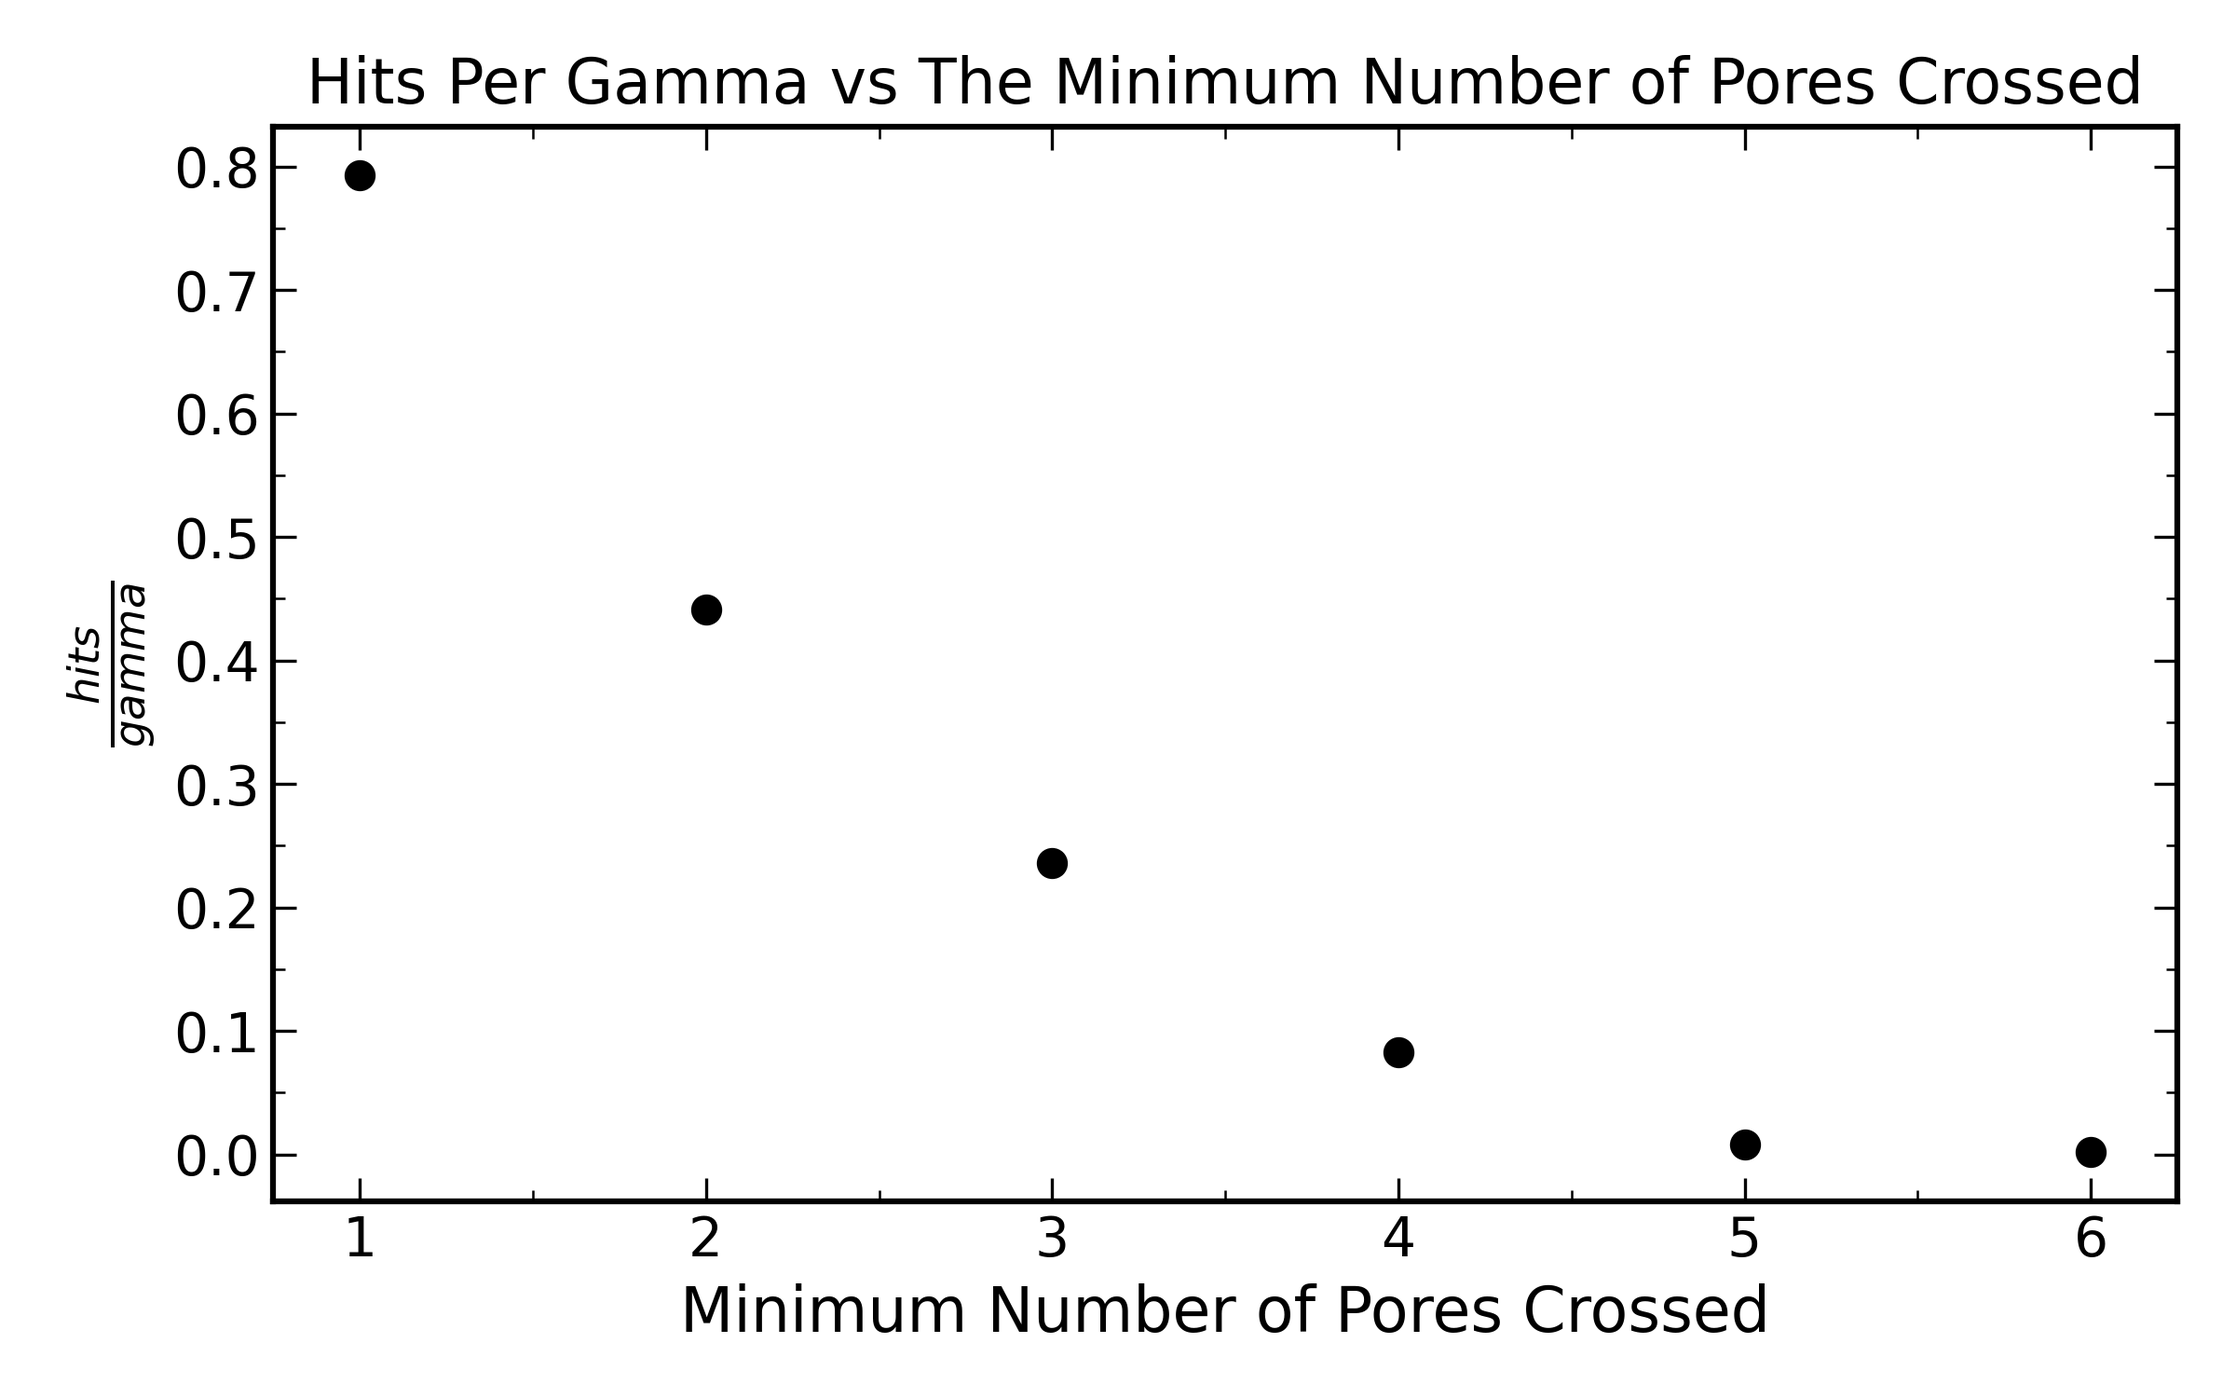
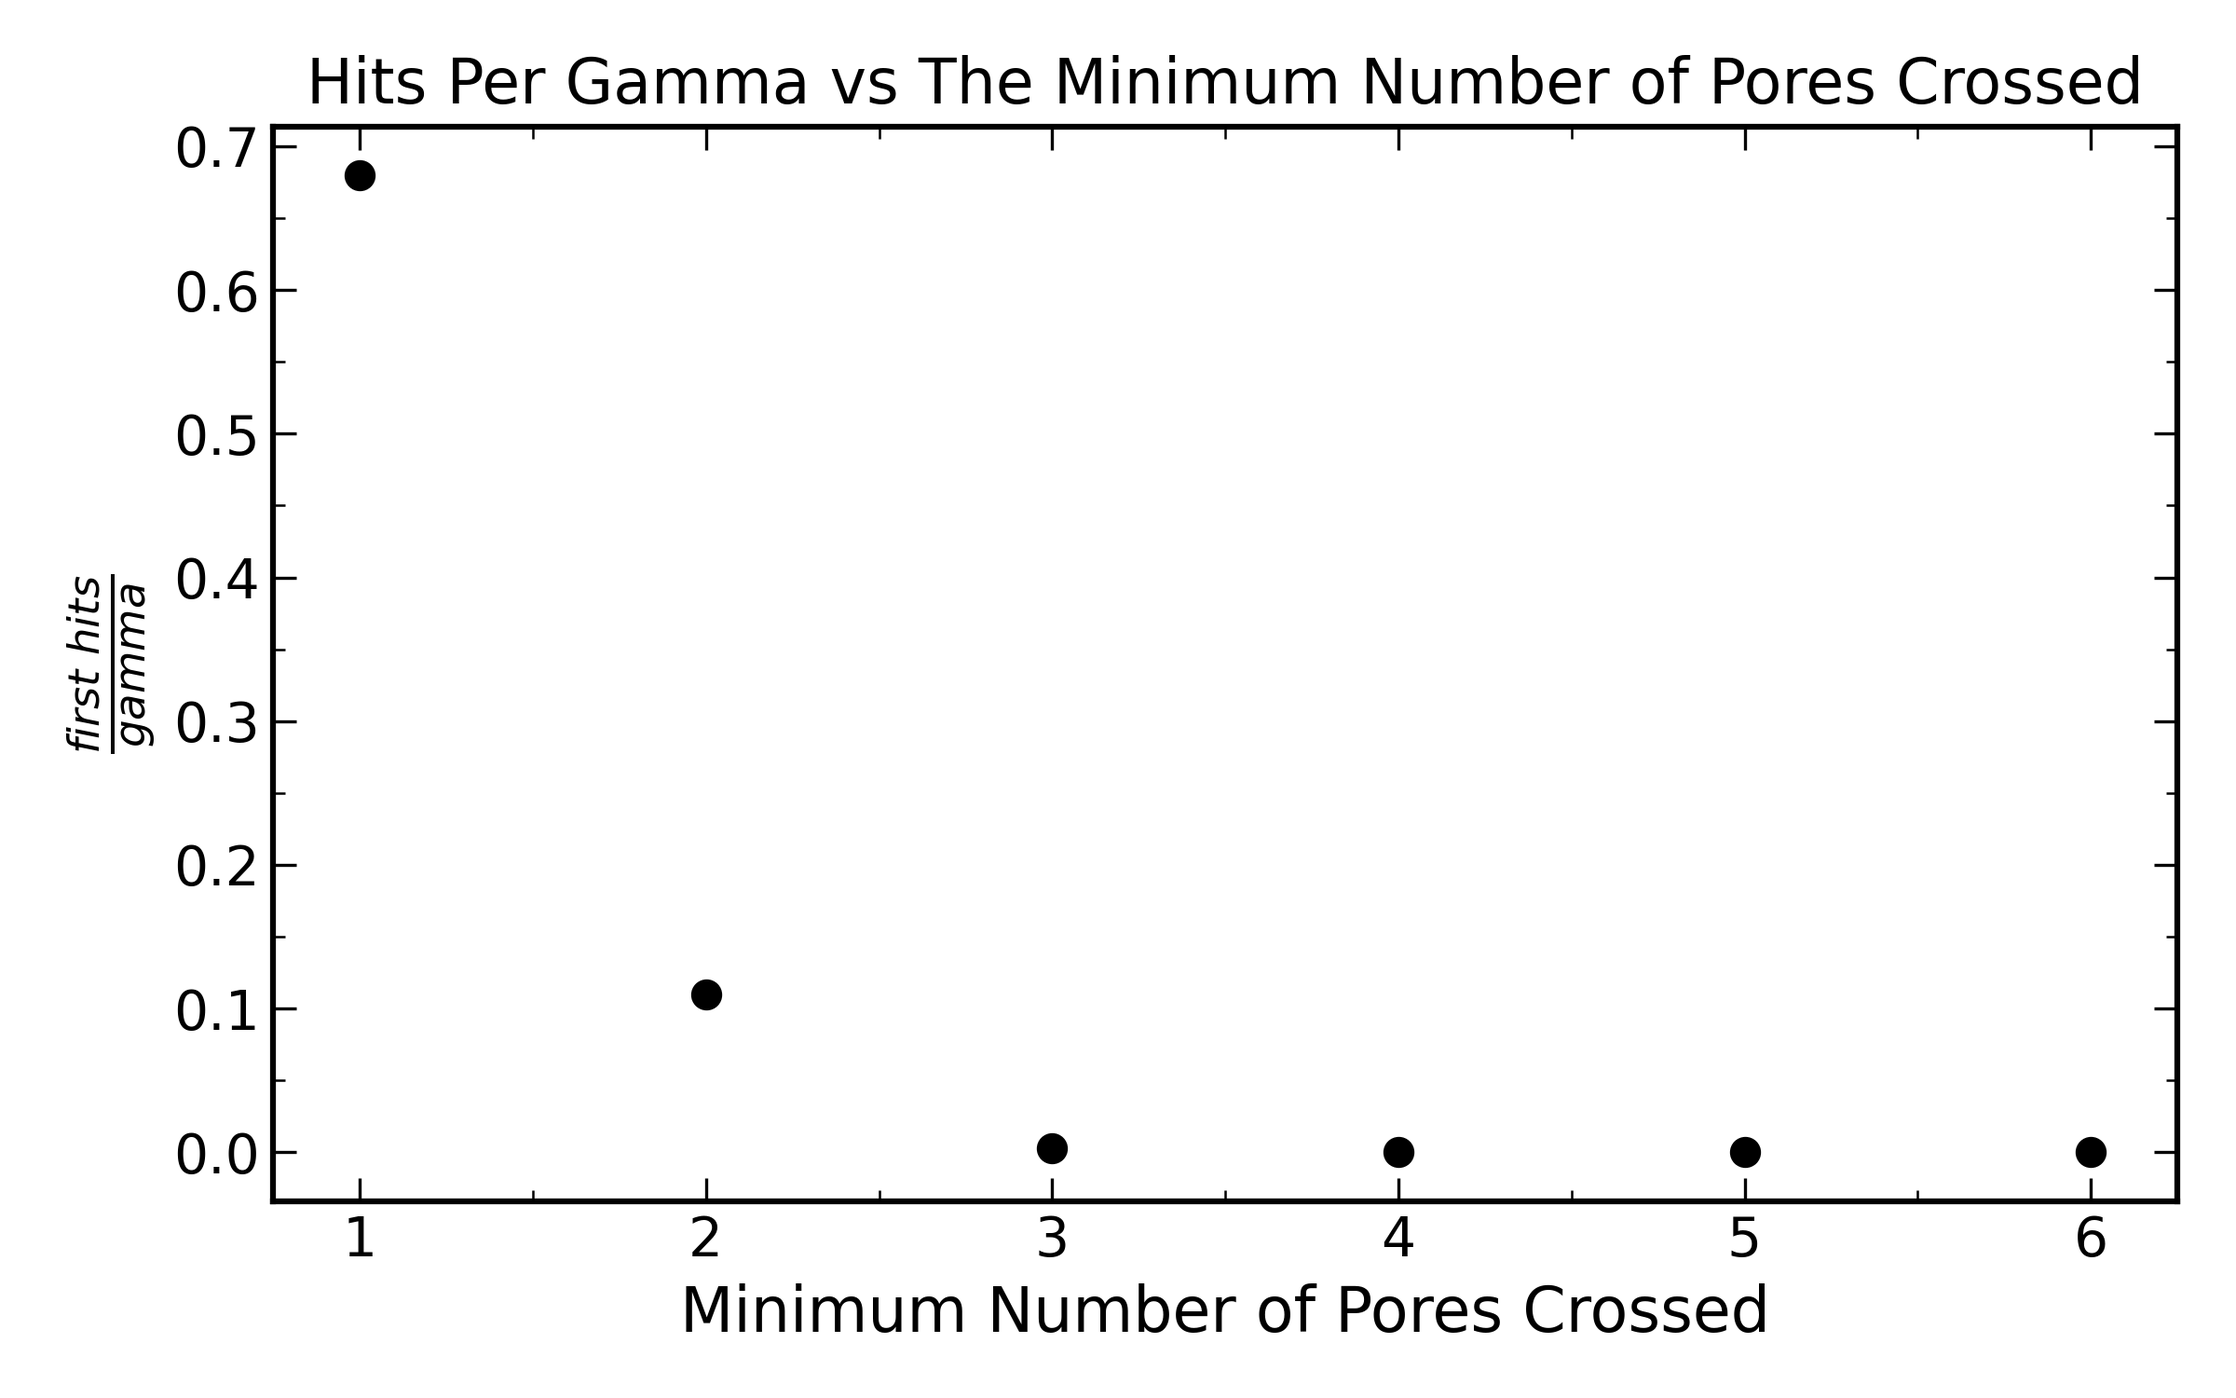
made plots cleaner

diff --git a/src/hgmt_lor_creator.c b/src/hgmt_lor_creator.c
@@ -23,7 +23,9 @@ uint vis_events = 0;
 uint counter = 0;
 uint hit_first_counter = 0;
 uint hit_second_counter = 0;
+uint first_hit_second_scatter = 0;
 uint hit_third_counter = 0;
+uint first_hit_third_scatter = 0;
 uint chain_count = 0;
 uint lor_count = 0;
 uint first_scatter_count = 0;
@@ -78,7 +80,8 @@ FILE *second_scatter_ranges;
 FILE *third_scatter_ranges;
 FILE *pores_crossed_first_hit;
 FILE *min_energy_pores;
-FILE *scatter_layers;
+FILE *first_scatter_layers;
+FILE *first_scatter_detected_layers;
 //FILE *angular_output;
 //FILE *det_angle;
 //FILE *energy_dist;
@@ -212,6 +215,11 @@ int debug_path(photon_path *path, debug_context context) {
         first_scatter_count ++;
         double range1 = pg_kapton_range_mm(path->events[0]->energy);
         fwrite(&range1, sizeof(double), 1, first_scatter_ranges);
+        int layer = path->events[0]->detector_id;
+        fwrite(&layer, sizeof(int), 1, first_scatter_layers);
+        if(path->events[0]->detected){
+            fwrite(&layer, sizeof(int), 1, first_scatter_detected_layers);
+        }
     }
     if(path->num_events >= 2){
         second_scatter_count ++;
@@ -259,9 +267,6 @@ int debug_annihilation(debug_context context) {
   annihilation *annihil = context.annihil;
   num_scatters += annihil->num_events;
   num_hits += annihil->num_hits;
-  for(int i = 0; i < annihil->num_events; i ++){
-    print_double(annihil->events[i].detector_id, scatter_layers);
-  }
   if (debug_options[0])
     for (int j = 0; j < annihil->num_events; j++)
       print_double(annihil->events[j].detector_id, debug[0]);
@@ -355,9 +360,15 @@ void *worker(void *arg) {
         } 
         else if(scatter_num == 1){
             hit_second_counter ++;
+            if(i == 0){
+                first_hit_second_scatter ++;
+            }
         }
         else if(scatter_num == 2){
             hit_third_counter ++;
+            if(i == 0){
+                first_hit_third_scatter ++;
+            }
         }
     }
     for (int i = 0; i < split.num_hits2; i ++){
@@ -619,10 +630,15 @@ int main(int argc, char **argv) {
   free(min_energy_loc);
 
   //open file for scatter layer counts
-  char *scatter_layer_loc;
-  asprintf(&scatter_layer_loc, "%sscatter_layers.data", args[2]);
-  scatter_layers = fopen(scatter_layer_loc, "wb");
-  free(scatter_layer_loc);
+  char *first_scatter_layer_loc;
+  asprintf(&first_scatter_layer_loc, "%sfirst_scatter_layers.data", args[2]);
+  first_scatter_layers = fopen(first_scatter_layer_loc, "wb");
+  free(first_scatter_layer_loc);
+
+  char *first_scatter_detected_layer_loc;
+  asprintf(&first_scatter_detected_layer_loc, "%sfirst_scatter_detected_layers.data", args[2]);
+  first_scatter_detected_layers = fopen(first_scatter_detected_layer_loc, "wb");
+  free(first_scatter_detected_layer_loc);
 
   //opens scatter ranges files
   char *first_ranges_loc;
@@ -747,8 +763,10 @@ int main(int argc, char **argv) {
   printf("first scatter hits: %u\n", hit_first_counter);
   printf("first scatter count: %u\n", first_scatter_count);
   printf("second scatter hits: %u\n", hit_second_counter);
+  printf("second scatter first hits eff: %f\n", (double)first_hit_second_scatter/second_scatter_count);
   printf("second scatter counts: %u\n", second_scatter_count);
   printf("third scatter hits: %u\n", hit_third_counter);
+  printf("third scatter first hits eff: %f\n", (double)first_hit_third_scatter/third_scatter_count);
   printf("third scatter counts: %u\n", third_scatter_count); 
   printf(
       "(DUAL)CUT 'N': 'num' 'percent passing' 'cumulative percent passing'\n");
@@ -834,8 +852,11 @@ int main(int argc, char **argv) {
   if(min_energy_pores != NULL){
     fclose(min_energy_pores);
   }
-  if(scatter_layers != NULL){
-    fclose(scatter_layers);
+  if(first_scatter_layers != NULL){
+    fclose(first_scatter_layers);
+  }
+  if(first_scatter_detected_layers != NULL){
+    fclose(first_scatter_detected_layers);
   }
   /*if (angular_output != NULL){
     fclose(angular_output);

diff --git a/scripts/plot_incoming_gammas.py b/scripts/plot_incoming_gammas.py
@@ -47,42 +47,43 @@ bin_width = bin_edges[1] - bin_edges[0]
 fig, ax = plt.subplots(figsize=(8,6))
 eps = 1e-10
 #ax.errorbar(bin_centers, counts/10000000, np.sqrt(counts)/10000000, capsize = 2)
-ax.plot(bin_centers, np.log(counts/20000000 + eps), label = 'all first hits')
+ax.plot(bin_centers, counts/20000000 + eps, label = 'all first hits')
 #ax.errorbar(bin_centers, counts_first/10000000, np.sqrt(counts_first)/10000000, capsize = 2)
-ax.plot(bin_centers, np.log(counts_first/20000000 + eps), label = 'i = 1')
+ax.plot(bin_centers, counts_first/20000000 + eps, label = 'i = 1')
 #ax.errorbar(bin_centers, counts_first_firstid/10000000, np.sqrt(counts_first_firstid)/10000000, capsize = 2)
 #ax.plot(bin_centers, np.log(counts_first_firstid/10000000 + eps))
 #ax.errorbar(bin_centers, counts_first_secondid/10000000, np.sqrt(counts_first_secondid)/10000000, capsize = 2)
 #ax.plot(bin_centers, np.log(counts_first_secondid/10000000 + eps))
 #ax.errorbar(bin_centers, counts_first_thirdid/10000000, np.sqrt(counts_first_thirdid)/10000000, capsize = 2)
 #ax.plot(bin_centers, np.log(counts_first_thirdid/10000000 + eps))
-ax.plot(bin_centers, np.log(counts_second/20000000 + eps), label = 'i = 2')
-ax.plot(bin_centers, np.log(counts_third/20000000 + eps), label = 'i = 3')
-ax.plot(bin_centers, np.log(counts_fourth/20000000 + eps), label = 'i = 4')
-ax.plot(bin_centers, np.log(counts_fifth/20000000 + eps), label = 'i = 5')
-ax.plot(bin_centers, np.log(counts_sixth/20000000 + eps), label = 'i = 6')
+ax.plot(bin_centers, counts_second/20000000 + eps, label = 'i = 2')
+ax.plot(bin_centers, counts_third/20000000 + eps, label = 'i = 3')
+ax.plot(bin_centers, counts_fourth/20000000 + eps, label = 'i = 4')
+ax.plot(bin_centers, counts_fifth/20000000 + eps, label = 'i = 5')
+ax.plot(bin_centers, counts_sixth/20000000 + eps, label = 'i = 6')
 ax.set_xlabel("Energy (keV)", fontsize = 14)
-ax.set_ylabel(r"Log(Fraction of Incoming Photons($\frac{photons}{events}$))", fontsize = 14)
+ax.set_ylabel(r"Log(Fraction of Incoming Photons($\frac{photons}{all gammas}$))", fontsize = 14)
 ax.set_title(r"Energy Distribution of Photons Resulting in $PC^{i,1}_{N}$", fontsize = 14)
 # Inward ticks
 ax.tick_params(which='both', direction='in')
+ax.set_yscale("log")
 # Subticks on the x-axis
 plt.minorticks_on()  # turns on subticks
 plt.tick_params(axis='x', which='minor', bottom=True)  # show subticks
 
 # Make y-axis go to the top
-plt.ylim(-24, 0)  # add a bit of headroom (5%)
+#plt.ylim(-10, 0)  # add a bit of headroom (5%)
 #(np.log(counts/10000000 + eps)).max() * 1.05
 # Force ticks to span 0 → max
-yticks = np.linspace(-24, 0, 6)  # choose number of ticks
+#yticks = np.linspace(-10, 0, 6)  # choose number of ticks
 # Round each tick to 2 significant figures
 plt.xlim(0, 520)
 def round_sig(x, sig=2):
     return float(f"{x:.{sig}g}")
 
-ytick_labels = [round_sig(y, 2) for y in yticks]
+#ytick_labels = [round_sig(y, 2) for y in yticks]
 
-plt.yticks(yticks, ytick_labels)
+#plt.yticks(yticks, ytick_labels)
 #plt.legend()
 ax.legend(
     loc='upper center',

diff --git a/scripts/plot_lors_per_annihil.py b/scripts/plot_lors_per_annihil.py
@@ -1,22 +1,13 @@
 import numpy as np
 import matplotlib.pyplot as plt
 from matplotlib.ticker import MultipleLocator, AutoMinorLocator, FormatStrFormatter
+from matplotlib.ticker import LogLocator, NullFormatter
 
-tau  = np.array([5, 4, 3, 2])
-lors_per_annihilation = np.array([0.51, 0.57, 0.63, 0.69])
-lors11_per_annihilation = np.array([0.17, 0.19, 0.21, 0.23])
-lors12_per_annihilation = np.array([0.13, 0.14, 0.15, 0.16])
-lors22_per_annihilation = np.array([0.024, 0.026, 0.028, 0.029])
-
-plt.rcParams.update({
-    "figure.figsize": (8, 5),
-    "axes.linewidth": 1.5,
-    "font.size": 14,
-    "xtick.direction": "in",
-    "ytick.direction": "in",
-    "xtick.top": True,
-    "ytick.right": True,
-})
+tau  = np.array([5, 4, 3, 2, 1, 0])
+lors_per_annihilation = np.array([0.51, 0.57, 0.63, 0.69, 0.69 + (0.69 - 0.63), 0.69 + (0.69 - 0.63)*2])
+lors11_per_annihilation = np.array([0.17, 0.19, 0.21, 0.23, 0.23 + (0.23 - 0.21), 0.23 + (0.23 - 0.21)*2])
+lors12_per_annihilation = np.array([0.13, 0.14, 0.15, 0.16, 0.16 + (0.16 - 0.15), 0.16 + (0.16 - 0.15)*2])
+lors22_per_annihilation = np.array([0.024, 0.026, 0.028, 0.029, 0.029 + (0.029 - 0.028), 0.029 + (0.029 - 0.028)*2])
 
 fig, ax = plt.subplots()
 ax.plot(tau, lors_per_annihilation, 'o-', ms = 10, linewidth=2)
@@ -29,21 +20,14 @@ ax.set_ylabel(r"LORs Per Annhilation $\frac{LORs}{Annihilaitons}$", fontsize=16)
 ax.set_title("LORs Per Annihilation v.s Tau", fontsize=18)
 
 # --- Axes limits ---
-ax.set_xlim(2, 5)
-ax.set_ylim(0.0, 0.70)   # accommodates full data range
-
-# --- X ticks: integers, no decimal formatting ---
-ax.xaxis.set_major_locator(MultipleLocator(1))
-ax.xaxis.set_minor_locator(AutoMinorLocator(2))
-
-# --- Y ticks ---
-ax.yaxis.set_major_locator(MultipleLocator(0.02))
-ax.yaxis.set_minor_locator(AutoMinorLocator(2))
-ax.yaxis.set_major_formatter(FormatStrFormatter("%.2f"))
-
-ax.tick_params(which='major', length=8, width=1.5, labelsize=12)
-ax.tick_params(which='minor', length=4, width=1.0)
+#ax.set_xlim(0, 5.1)
+#ax.set_ylim(np.log10(0.02), np.log10(1.00))   # accommodates full data range
+ax.set_yscale("log")
+ax.set_ylim(1e-2, 1)   # now you should see 10^-2, 10^-1, 10^0
+ax.tick_params(axis="y", which="minor", labelsize=10, direction="in")
+ax.tick_params(axis="y", which="major", labelsize=10, direction="in")
+ax.tick_params(axis="x", which="major", labelsize=10, direction="in")
 
 fig.tight_layout()
-plt.savefig("plots/lors_per_annihil.png", dpi=300)
+plt.savefig("plots/lors_per_annihil_total.png", dpi=300)
 plt.show()

diff --git a/scripts/plot_hit_scatter_vs_tau.py b/scripts/plot_hit_scatter_vs_tau.py
@@ -1,11 +1,14 @@
 import matplotlib.pyplot as plt
 from matplotlib.ticker import AutoMinorLocator
 
-thickness_mm = [2, 3, 4, 5]
+thickness_mm = [5, 4, 3, 2, 1, 0]
 
-hit_first_scatter_eff = [0.51, 0.56, 0.61, 0.65]
-hit_second_scatter_eff = [0.33, 0.36, 0.41, 0.46]
-hit_third_scatter_eff = [0.18, 0.20, 0.24, 0.29]
+hit_first_scatter_eff = [0.51, 0.56, 0.61, 0.65, 0.65 + (0.65-0.61), 0.65 + 2*(0.65-0.61)]
+hit_second_scatter_eff = [0.33, 0.36, 0.41, 0.46, 0.46 + (0.46-0.41), 0.46 + 2*(0.46-0.41)]
+hit_third_scatter_eff = [0.18, 0.20, 0.24, 0.29, 0.29 + (0.29-0.24), 0.29 + 2*(0.29-0.24)]
+
+first_hit_second_scatter_eff = [0.083, 0.085, 0.086, 0.087, 0.087 + (0.087-0.086), 0.087 + 2*(0.087-0.086)]
+first_hit_third_scatter_eff = [0.032, 0.031, 0.030, 0.028, 0.028 + (0.028-0.030), 0.028 + 2*(0.028-0.030)]
 
 # APS-like styling
 plt.rcParams.update({
@@ -29,16 +32,21 @@ fig, ax = plt.subplots()
 # Point plot
 ax.plot(thickness_mm, hit_first_scatter_eff, "o-", color="red", markersize=7, linewidth=1.5)
 ax.plot(thickness_mm, hit_second_scatter_eff, "^-", color="green", markersize=7, linewidth=1.5)
+ax.plot(thickness_mm, first_hit_second_scatter_eff, "^--", color="green", markerfacecolor="none", markersize="7", linewidth=1.5)
 ax.plot(thickness_mm, hit_third_scatter_eff, "s-", color="blue", markersize=7, linewidth=1.5)
+ax.plot(thickness_mm, first_hit_third_scatter_eff, "s--", color="blue", markerfacecolor="none", markersize="7", linewidth=1.5)
 
 # Labels
 ax.set_xlabel(r"Thickness Tau (mils)", fontsize = 14)
 ax.set_ylabel(r"Hit Efficieny$(\frac{hits}{scatters})$", fontsize = 14)
-ax.set_title("Hits per Scatter vs Tau for T = 1 inch")
+ax.set_title("Hits per Scatter vs Tau")
 
 # Minor ticks
 ax.xaxis.set_minor_locator(AutoMinorLocator(2))
 ax.yaxis.set_minor_locator(AutoMinorLocator(2))
+ax.set_ylim(1e-2, 1)
+ax.set_yscale("log")
+#ax.set_xlim(0, 5.1)
 
 plt.tight_layout()
 plt.savefig("plots/hit_scatter_vs_thickness.png", dpi=300)

diff --git a/scripts/compare_scatters.py b/scripts/compare_scatters.py
@@ -24,8 +24,8 @@ def read_histogram(file_path):
     return np.array(bin_centers), np.array(counts)
 
 # Set your paths
-file_detected = "plots/first_scatter_detected_pointvac.txt"
-file_all = "plots/first_scatter_detector_pointvac.txt"
+file_detected = "data/first_scatter_detected_layers.data"
+file_all = "data/first_scatter_layers.data"
 
 # Read histogram data
 centers_detected, counts_detected = read_histogram(file_detected)
@@ -35,7 +35,7 @@ centers_all, counts_all = read_histogram(file_all)
 errors_detected = np.sqrt(counts_detected)/np.sum(counts_all)
 errors_all = np.sqrt(counts_all)/np.sum(counts_all)
 
-"""#Scatter Plot
+#Scatter Plot
 plt.errorbar(centers_all, counts_all/2000000, yerr=errors_all, fmt='-o', label='All First Scatters', capsize=3)
 plt.errorbar(centers_detected, counts_detected/2000000, yerr=errors_detected, fmt='-o', label='Detected First Scatters', capsize=3)
 
@@ -64,9 +64,9 @@ ytick_labels = [round_sig(y, 2) for y in yticks]
 
 plt.yticks(yticks, ytick_labels)
 plt.savefig("plots/first_scatter_comparison.png")
-plt.show()"""
+plt.show()
 
-#Integral Plots
+"""#Integral Plots
 integral_detected = [np.sum(counts_detected[:i+1]/2000000) for i in range(len(counts_detected))]
 integral_all = [np.sum(counts_all[:i+1]/2000000) for i in range(len(counts_all))]
 
@@ -108,4 +108,4 @@ ytick_labels = [round_sig(y, 2) for y in yticks]
 plt.yticks(yticks, ytick_labels)
 
 plt.savefig("plots/integral_scatter_comparison.png")
-plt.show()
+plt.show()"""

diff --git a/scripts/plot_chains_per_gamma.py b/scripts/plot_chains_per_gamma.py
@@ -2,8 +2,8 @@ import numpy as np
 import matplotlib.pyplot as plt
 from matplotlib.ticker import MultipleLocator, AutoMinorLocator, FormatStrFormatter
 
-tau  = np.array([5, 4, 3, 2])
-chains_per_gamma = np.array([0.68, 0.72, 0.76, 0.79])
+tau  = np.array([5, 4, 3, 2, 1, 0])
+chains_per_gamma = np.array([0.68, 0.72, 0.76, 0.79, 0.79 + (0.79 - 0.76), 0.79 + (0.79 - 0.76)*2])
 
 plt.rcParams.update({
     "figure.figsize": (8, 5),
@@ -19,21 +19,13 @@ fig, ax = plt.subplots()
 ax.plot(tau, chains_per_gamma, marker='o', ms = 10, linewidth=2)
 
 ax.set_xlabel("Tau (mil)", fontsize=16)
-ax.set_ylabel(r"Compton Chains per Gamma", fontsize=16)
-ax.set_title("Compton Chains per 511 keV Gamma", fontsize=18)
+ax.set_ylabel(r"Compton Chains per Gamma($\frac{Compton \ Chains}{Gammas}$)", fontsize=16)
+ax.set_title("Compton Chains per Gamma", fontsize=18)
 
 # --- Axes limits ---
-ax.set_xlim(2, 5)
-ax.set_ylim(0.65, 0.79)   # accommodates full data range
+#ax.set_xlim(0.0, 5.1)
+ax.set_ylim(0.0, 1.00)   # accommodates full data range
 
-# --- X ticks: integers, no decimal formatting ---
-ax.xaxis.set_major_locator(MultipleLocator(1))
-ax.xaxis.set_minor_locator(AutoMinorLocator(2))
-
-# --- Y ticks ---
-ax.yaxis.set_major_locator(MultipleLocator(0.02))
-ax.yaxis.set_minor_locator(AutoMinorLocator(2))
-ax.yaxis.set_major_formatter(FormatStrFormatter("%.2f"))
 
 ax.tick_params(which='major', length=8, width=1.5, labelsize=12)
 ax.tick_params(which='minor', length=4, width=1.0)

diff --git a/scripts/plot_pores_crossed.py b/scripts/plot_pores_crossed.py
@@ -86,7 +86,7 @@ fig, ax = plt.subplots()
 
 ax.plot(ks, y_vals, "o", markersize=7, color="black")
 ax.set_xlabel("Minimum Number of Pores Crossed")
-ax.set_ylabel(r"$\frac{hits}{gamma}$")
+ax.set_ylabel(r"$\frac{first \ hits}{gamma}$")
 ax.set_title("Hits Per Gamma vs The Minimum Number of Pores Crossed")
 
 ax.xaxis.set_minor_locator(AutoMinorLocator(2))

diff --git a/src/pore_geometry.h b/src/pore_geometry.h
@@ -18,7 +18,7 @@
 #define ALPHA 5 //microns
 #define BETA 50 //microns
 #define GAMMA 1000 //microns
-#define TAU 51 //microns
+#define TAU 127 //microns
 
 // tolerances for AXIS_SLAB / axis_slab
 #define EPS_U 1e-12      // treat |u| < EPS_U as parallel (units: same as u, typically mm per t)
